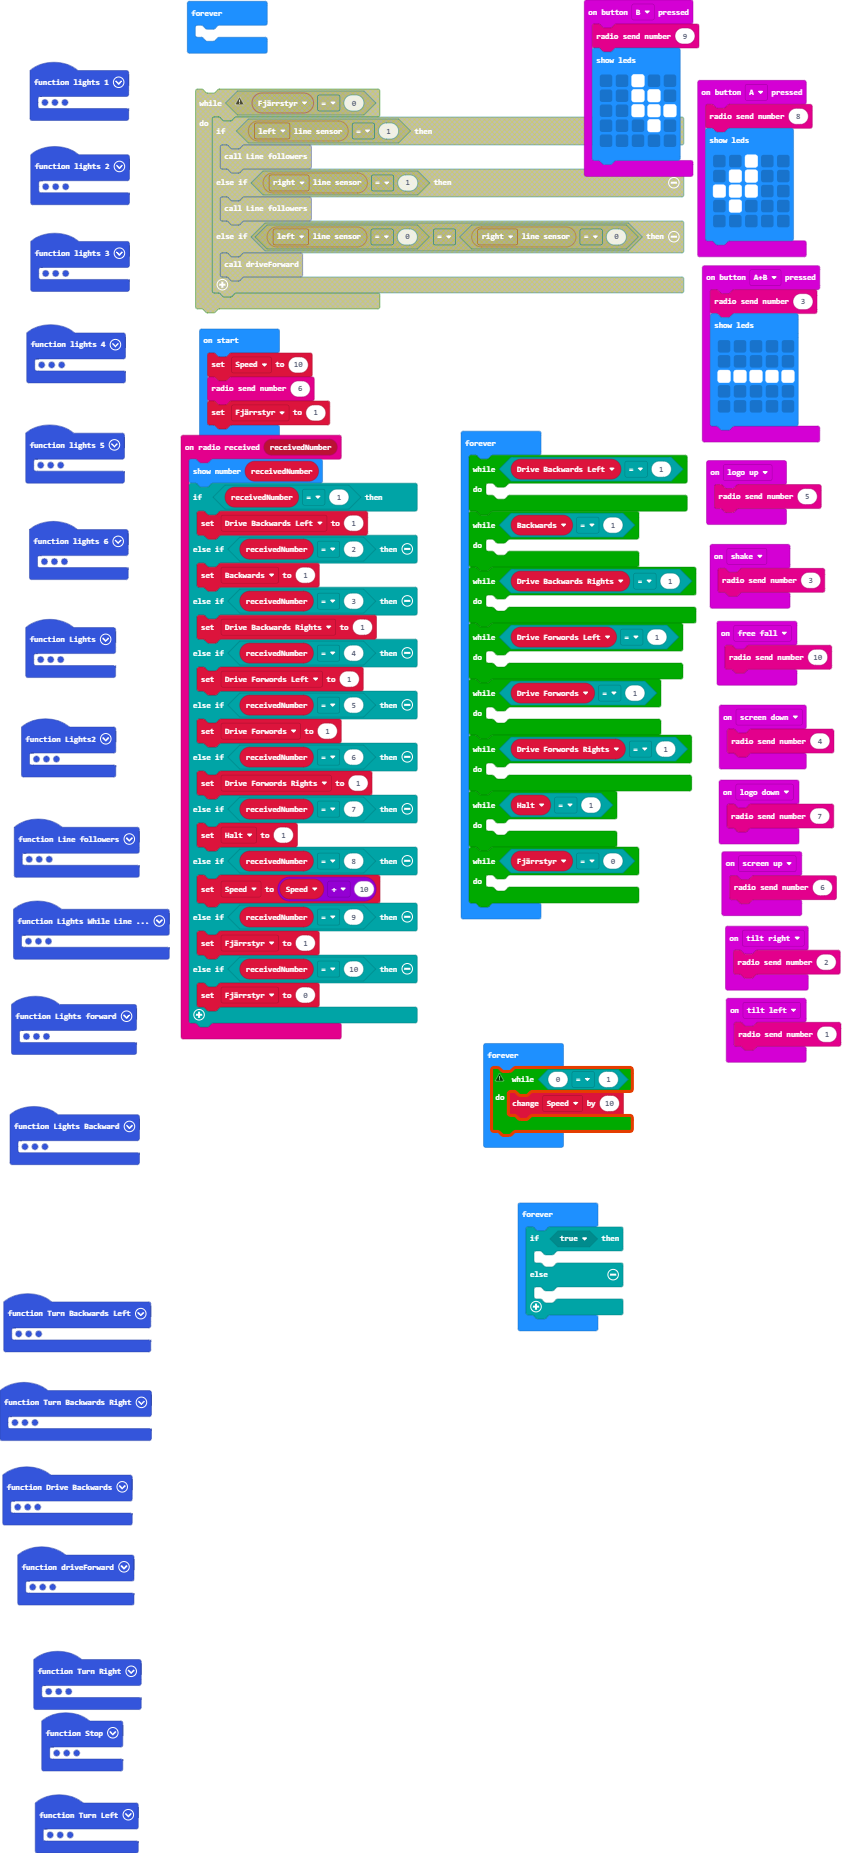
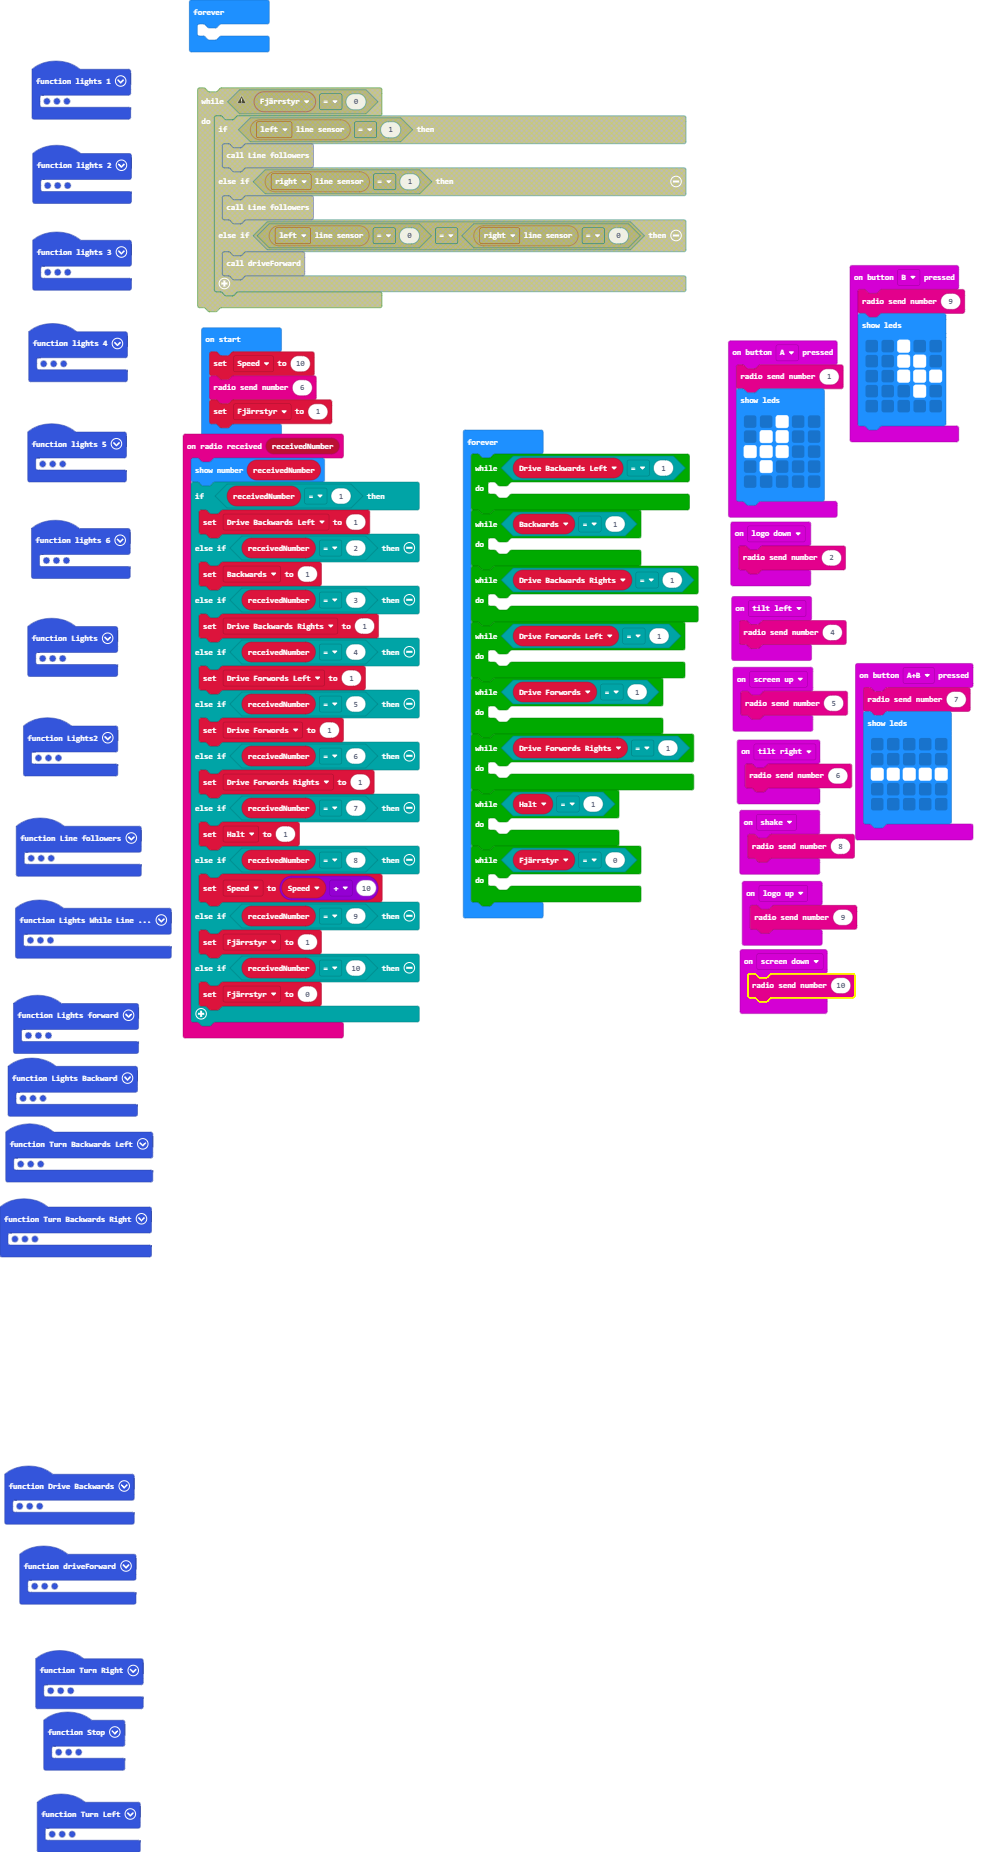
Update main.blocks, main.ts

Changed region(s): [[0.0, 0.0, 0.9965, 1.0]]

diff --git a/main.ts b/main.ts
@@ -102,7 +102,7 @@ function lights_3 () {
     bitbot.ledClear()
 }
 input.onButtonPressed(Button.A, function () {
-    radio.sendNumber(8)
+    radio.sendNumber(1)
     basic.showLeds(`
         . . # . .
         . # # . .
@@ -110,9 +110,6 @@ input.onButtonPressed(Button.A, function () {
         . # . . .
         . . . . .
         `)
-})
-input.onGesture(Gesture.FreeFall, function () {
-    radio.sendNumber(10)
 })
 function Line_followers () {
     for (let index = 0; index < 1e+103; index++) {
@@ -128,7 +125,7 @@ function Line_followers () {
     }
 }
 input.onGesture(Gesture.LogoUp, function () {
-    radio.sendNumber(5)
+    radio.sendNumber(9)
 })
 function Lights () {
     lights_1()
@@ -160,7 +157,7 @@ function Turn_Left () {
     bitbot.stop(BBStopMode.Brake)
 }
 input.onGesture(Gesture.TiltLeft, function () {
-    radio.sendNumber(1)
+    radio.sendNumber(4)
 })
 function Lights2 () {
     lights_6()
@@ -171,13 +168,13 @@ function Lights2 () {
     lights_1()
 }
 input.onGesture(Gesture.ScreenUp, function () {
-    radio.sendNumber(6)
+    radio.sendNumber(5)
 })
 input.onGesture(Gesture.ScreenDown, function () {
-    radio.sendNumber(4)
+    radio.sendNumber(10)
 })
 input.onButtonPressed(Button.AB, function () {
-    radio.sendNumber(3)
+    radio.sendNumber(7)
     basic.showLeds(`
         . . . . .
         . . . . .
@@ -203,7 +200,7 @@ input.onButtonPressed(Button.B, function () {
         `)
 })
 input.onGesture(Gesture.Shake, function () {
-    radio.sendNumber(3)
+    radio.sendNumber(8)
 })
 function driveForward () {
     Lights_forward()
@@ -218,10 +215,10 @@ function driveForward () {
     bitbot.go(BBDirection.Forward, Speed)
 }
 input.onGesture(Gesture.TiltRight, function () {
-    radio.sendNumber(2)
+    radio.sendNumber(6)
 })
 input.onGesture(Gesture.LogoDown, function () {
-    radio.sendNumber(7)
+    radio.sendNumber(2)
 })
 function lights_5 () {
     bitbot.setPixelColor(4, 0x659900)
@@ -327,18 +324,6 @@ basic.forever(function () {
     	
     }
     while (Fjärrstyr == 0) {
-    	
-    }
-})
-basic.forever(function () {
-    while (0 == 1) {
-        Speed += 10
-    }
-})
-basic.forever(function () {
-    if (true) {
-    	
-    } else {
     	
     }
 })
